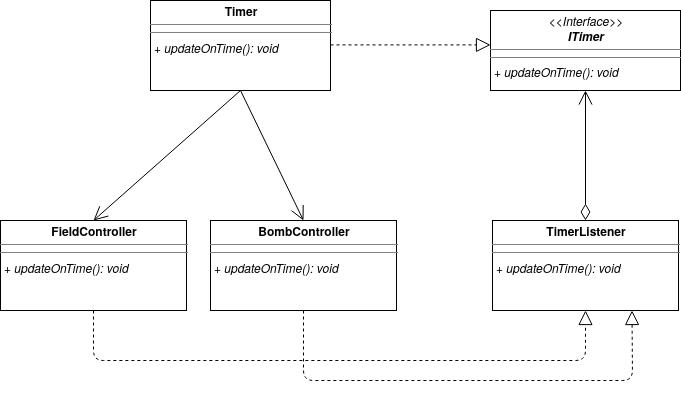
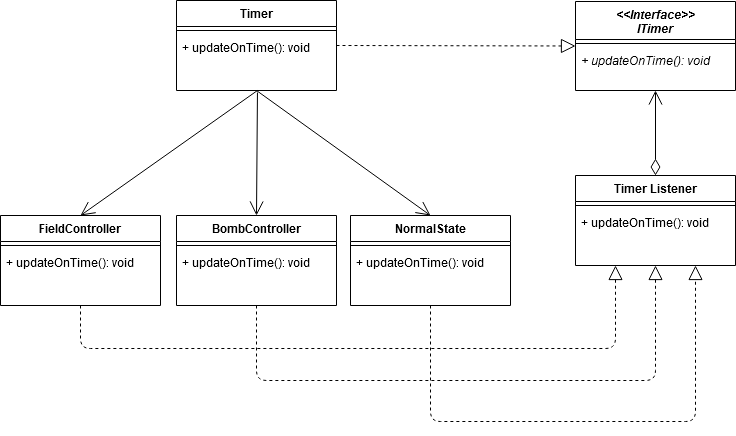
moved visitor

diff --git a/src/main/java/com/noclue/model/collectible/Invencible.java b/src/main/java/com/noclue/model/collectible/Invencible.java
@@ -1,8 +1,9 @@
 package com.noclue.model.collectible;
 
-import com.noclue.Visitor;
 import com.noclue.controller.FieldController;
 import com.noclue.model.Position;
+
+import static com.noclue.model.collectible.Visitor.visitInvencible;
 
 public class Invencible implements Collectible {
     Position position;
@@ -21,6 +22,6 @@ public class Invencible implements Collectible {
 
     @Override
     public void visit(FieldController fieldController) {
-        Visitor.visitInvencible(fieldController);
+        visitInvencible(fieldController);
     }
 }

diff --git a/src/main/java/com/noclue/model/collectible/CoinModel.java b/src/main/java/com/noclue/model/collectible/CoinModel.java
@@ -1,8 +1,9 @@
 package com.noclue.model.collectible;
 
-import com.noclue.Visitor;
 import com.noclue.controller.FieldController;
 import com.noclue.model.Position;
+
+import static com.noclue.model.collectible.Visitor.visitCoin;
 
 public class CoinModel implements Collectible {
     Position position;
@@ -21,6 +22,6 @@ public class CoinModel implements Collectible {
 
     @Override
     public void visit(FieldController fieldController) {
-        Visitor.visitCoin(fieldController);
+        visitCoin(fieldController);
     }
 }

diff --git a/src/main/java/com/noclue/model/collectible/DoorModel.java b/src/main/java/com/noclue/model/collectible/DoorModel.java
@@ -1,8 +1,9 @@
 package com.noclue.model.collectible;
 
-import com.noclue.Visitor;
 import com.noclue.controller.FieldController;
 import com.noclue.model.Position;
+
+import static com.noclue.model.collectible.Visitor.visitDoor;
 
 public class DoorModel implements Collectible {
     Position position;
@@ -21,6 +22,6 @@ public class DoorModel implements Collectible {
 
     @Override
     public void visit(FieldController fieldController) {
-        Visitor.visitDoor(fieldController);
+        visitDoor(fieldController);
     }
 }

diff --git a/src/main/java/com/noclue/model/collectible/AddLife.java b/src/main/java/com/noclue/model/collectible/AddLife.java
@@ -1,8 +1,9 @@
 package com.noclue.model.collectible;
 
-import com.noclue.Visitor;
 import com.noclue.controller.FieldController;
 import com.noclue.model.Position;
+
+import static com.noclue.model.collectible.Visitor.visitLife;
 
 public class AddLife implements Collectible {
     Position position;
@@ -21,6 +22,6 @@ public class AddLife implements Collectible {
 
     @Override
     public void visit(FieldController fieldController) {
-        Visitor.visitLife(fieldController);
+        visitLife(fieldController);
     }
 }

diff --git a/src/main/java/com/noclue/model/collectible/AddTime.java b/src/main/java/com/noclue/model/collectible/AddTime.java
@@ -1,8 +1,9 @@
 package com.noclue.model.collectible;
 
-import com.noclue.Visitor;
 import com.noclue.controller.FieldController;
 import com.noclue.model.Position;
+
+import static com.noclue.model.collectible.Visitor.visitTime;
 
 public class AddTime implements Collectible {
     Position position;
@@ -21,6 +22,6 @@ public class AddTime implements Collectible {
 
     @Override
     public void visit(FieldController fieldController) {
-        Visitor.visitTime(fieldController);
+        visitTime(fieldController);
     }
 }

diff --git a/src/main/java/com/noclue/model/collectible/Visitor.java b/src/main/java/com/noclue/model/collectible/Visitor.java
@@ -1,4 +1,4 @@
-package com.noclue;
+package com.noclue.model.collectible;
 
 import com.noclue.controller.FieldController;
 

diff --git a/docs/README.md b/docs/README.md
@@ -121,7 +121,8 @@
 >In order to solve this issue and separate responsibilities into different objects we adopted the MVC (Model - View - Controller) pattern. Doing so allowed us to make our code organized, easier to read and overall structured. We also benefict from the fact that changing or adding features is very much simpler. Since we only thought of implementing this design midway it took longer than expected but this is how it turned out...
 #### The Implementation
 >The following UML shows how we implemented this design through one example since it is basically the same for every object:
-![uml](UML/MVC.png)
+>
+>![uml](UML/MVC.png)
 >
 >These classes can be found at:
 >
@@ -142,7 +143,8 @@
 >We chose to go with the first option of letting each bomb handle itself and implementing a State Pattern since this was specially easier to do with the above mentioned MVC pattern. What this pattern does is allow us to represent different states of application with different subclasses. This pattern allowed us to address this simple problem because the bomb clearly has two different states: ticking and explosion. When the bomb needs to change from ticking to exploded, it only has to change its view. Since both implement the same interface, the controller does not have the need to keep checking flags and if's when it renders to check the state.  
 #### The Implementation
 >The following UML shows how we mapped this pattern:
-![uml](UML/Bomb-Explosion.png)
+>
+>![uml](UML/Bomb-Explosion.png)
 >
 >These classes/interface can be found at:
 >
@@ -165,7 +167,8 @@
 >To work this problem out we chose to use the Strategy Pattern. It solves this specific problem allowing us to define a number of related algorithms and encapsulate them, making them interchangeable and thus changing the monsters's behaviour slightly according to the difficulty that is assigned even though their job is all the same. The Monster only has to call the class that was passed to it, and that class is responsible for sorting the four possible movement by most preferable according to each difficulty's objetive.
 #### The Implementation
 >The following UML shows how we mapped this pattern:
-![uml](UML/Difficulty.png)
+>
+>![uml](UML/Difficulty.png)
 >
 >These classes/interface can be found at:
 >
@@ -189,10 +192,11 @@
 >The issue was on how to notify each monster to move. There was a different but similar situation with our hero, where he needed to wait for an input that wasn't his to receive. How should we go about this? The hero situation represented an even bigger setback because the keyboard input is asynchronous.
 #### The Design
 >We rapidly decided to adopt the Observer Pattern for this situation. This design defines a one-to-many dependency between objects so that when one object updates its dependents, they are notified and updated automatically. Applying this to our project, the "status change" would be the instant there's a new frame to draw or when keyboard interrupt is received and both of them have its own "Listener" class that does exactly that, simulate a framerate and listen to keyboard input.
->This way using the concepts of the Observer Pattern, those listeners notify the classes that depend so they can update themselves (TimeListener notifies the Game and FieldController class and KeyboardListener notifies the FieldController. The FieldController has a similiar aproach by notifying the other classes to draw).
+>This way using the concepts of the Observer Pattern, those listeners notify the classes that depend so they can update themselves (TimeListener notifies the FieldController, BombController and NormalState if necessary and KeyboardListener notifies the FieldController and the MenuController. The FieldController has a similiar aproach by notifying the other classes to draw.
 #### The Implementation
 >The following UML shows the time listener and how the main controllers depend on it (the keyboard listener is basically the same so we decided not to put it in the UML to simplify):
-![uml](UML/Listeners.png)
+>
+>![uml](UML/Listeners.png)
 >
 >These classes/interface can be found at:
 >
@@ -205,7 +209,9 @@
 > [FieldController](../src/main/java/com/noclue/controller/FieldController.java)
 >
 > [BombController](../src/main/java/com/noclue/controller/bomb/BombController.java)
-#### The consequences
+>
+> [NormalState](../src/main/java/com/noclue/model/state/NormalDeactivate.java)
+#### The Consequences
 > - Further encapsulation and code structurization where the listeners have no information about their observers, just that they exist and the need to notify them when the time is right, nor do they about the listener.
 #### * Note about the class notification: since the FieldModel holds almost every other model it would make sense for the FieldController to also manipulate most of them.
 
@@ -216,7 +222,8 @@
 >The need to adapt the code lead us to the Interface Adapter design. This allows to convert the interface of class into another interface that is expected. Even though we are not following the design to the word since we are not really adapting interfaces (just a simple function) we took some principles off of it and choose tho make a generic draw() call that each class will adapt to its own liking.
 #### The Implementation
 >The following UML serves as an example of how we achieved this:
-![uml](UML/IVIEW.png)
+>
+>![uml](UML/IVIEW.png)
 >
 >These classes/interface can be found at:
 >
@@ -234,21 +241,42 @@
 > - More readability
 > - The caller does not have to know the class objects and functions parameters 
 
-### 6. States
+### 6. Life Handling and Power-Up
 #### The Problem
 > The implementation of lives was bundled together with a big hurdle. The fact that the player wouldn't lose immediatly wasn't, at first, assured just by removing a life since the monster would just kill the player again real fast and as for the bomb, the tiles where it would explode would continue to 'be exploding' for a while and so the player would mostly lose all his lives instantly anyway.
 #### The Design
 > To go around this we decided to make the hero have a few seconds of invulnerability after loosing a life so he can reposition and avoid losing all lives in the same instant. The way we chose to do is using the State pattern which allows us to alter the hero's behaviour according to his current state. To be more precise the invulnerability state (used together with a timer so it can be reverted to the normal state) would just do nothing when the other would decrement lives.
 >
-> Taking advantage of this addition we also implemented a feature where the player could be powered-up for a few steps and although the end result is different, the pattern used is the same.
+> Taking advantage of this addition we also implemented a feature where the player could be powered-up for a few steps and although the end result is different, the pattern used is the same altering the 'isTouching' logic.
 #### The Implementation
-> Colocar aqui um UML GOSTOSO <3
+> The following UML shows how we did this:
+>
+>![UML](UML/States.png)
+>
+> These classes can be found at:
+>
+> [Hero](../src/main/java/com/noclue/model/character/HeroModel.java)
+>
+> [DeactivateState](../src/main/java/com/noclue/model/state/DeactivateState.java)
+>
+> [InvincibleDeactivate](../src/main/java/com/noclue/model/state/InvincibleDeactivate.java)
+>
+> [NormalDeactivate](../src/main/java/com/noclue/model/state/NormalDeactivate.java)
+>
+> [isTouchingState](../src/main/java/com/noclue/model/state/IsTouchingState.java)
+>
+> [NormalIsTouching](../src/main/java/com/noclue/model/state/NormalIsTouching.java)
+>
+> [InvincibleIsTouching](../src/main/java/com/noclue/model/state/InvencibleIsTouching.java)
+>
+> And the one that handles the calling of deactivate and isTouching is [HeroController](../src/main/java/com/noclue/controller/HeroController.java)
+
 #### The Consequences
 > - Adding states is very simple and doesn't require changing the ones that already exist.
 > - Single Responsibility principle: each class has only one job
 > - No need of using a multitude of conditional statements that would make the code harder to read
 
-### 7. Visitor
+### 7. Instanceof
 #### The Problem
 > After finishing almost all our main objectives for the project, while reviewing our code we noticed the use of multiple 'instaceof' which worked fine but isn't a very good practice and makes the code less extensible.
 #### The Design
